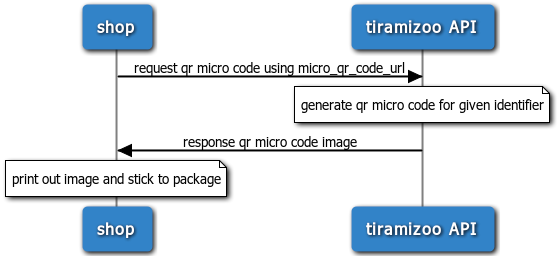
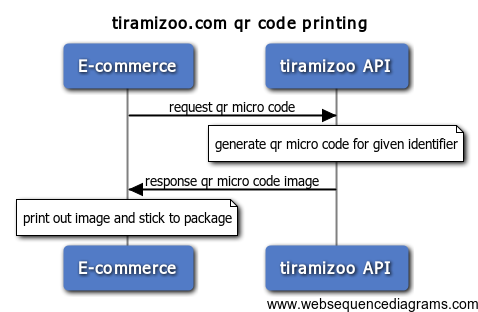
846: improve doc

diff --git a/_layouts/default.html b/_layouts/default.html
@@ -55,7 +55,7 @@
               <li><a href="/quotes.html">Quotes</a></li>
               <li><a href="/orders.html#cancel_order">Order Cancelation</a></li>
               <li><a href="/web_hooks.html">Web Hooks</a></li>
-              <li><a href="/qr_codes.html">Package labels (QR codes)</a></li>
+              <li><a href="/qr_codes.html">Package labeling process</a></li>
               <li class="divider"></li>
               <li><a href="/tracking_page.html">Tracking Page</a></li>
               <li><a href="/sandbox.html">Sandbox</a></li>

diff --git a/qr_codes.md b/qr_codes.md
@@ -1,76 +1,61 @@
 ---
 layout: page
-title: Package labels (QR codes)
+title: Package labeling process
 ---
 
-## Package labeling process
+On [order creation process](/orders.html) tiramizoo service generates uniq identifier for each package.
 
-#### Package identifier / QR code url
+![Generate identifier for a package](/assets/images/qr_step1.png)
 
-During order creation process ([More](/orders.html)) each package is generated:
 
-- unique identification number ("identifier")     <- Information to be encoded in QR code
-- api url to obtain QR code image ("QR_code_url") <- Api url to obtain QR code image 
-
-![Generate identifier for a package](/assets/images/QR_step1.png)
-
-Example order creation response:
-
+##### Packages representation #####
 {% highlight javascript %}
-{
-  "uuid": "a505ff78-67c5-4fbd-ab4f-a8db81f2c45a",
-  "state": "processing",
-  "created_at": "2013-03-12T11:13:46+01:00",
-  "description": "rubber chickens and chunky bacon",
+"packages": [
+  {
+    "width": 2,
+    "height": 8.2,
+    "length": 5,
+    "weight": 2,
+    "quantity": 1,
+    "description": "chunky bacon",
+    "identifier": "3E39C50E40226436",
+    "qr_code_url": "/api/v1/qr_codes/3E39C50E40226436"
+  },
   ...
-  "packages": [
-    {
-      "width": 2,
-      "height": 8.2,
-      "length": 5,
-      "weight": 2,
-      "quantity": 1,
-      "description": "chunky bacon",
-      "identifier": "3E39C50E40226436",
-      "QR_code_url": "/api/v1/QR_codes/3E39C50E40226436"
-    }
-  ...
-}
+]
 {% endhighlight %}
 
-#### QR code image generation
+ * `identifier` - 16 chars long, uniq identifier, contains only A-Z and 0-9
+ * `qr_code_url` - URL to generate qr code label
 
-User should label the packege with "identifier" encoded as QR code image ([More about QR codes](http://en.wikipedia.org/wiki/QR_code))
-##### It's highly recommended to use your own solution to generate QR code image for package labeling !!
 
-## QR code API
+QR code label needs to be generated for each package using package's `identifier` as a content.
 
-The QR codes API provides a simple and quick way to obtain QR code image for every package recoreded in a system. 
-**However it's highly recommended to use your own solution to generate QR code image for package labeling !!**
+![Generate QR code image for a package](/assets/images/qr_step2.png)
 
-![Generate QR code image for a package](/assets/images/QR_step2.png)
+##### Notice: We encourage you to implement your own solution and not relay on QR codes API. Under high load it may not be as fast and reliable as dedicated solution #####
 
-To obtain QR code you just need to send request with package identifier 
+## QR code API ##
 
-All requests require authentication (valid **API_TOKEN**  [More](/#api_tokens) )
+The QR codes API provides a simple way to generate QR code label for given identifier.
 
-#### Get  code
+#### Get QR code ####
 
 ```
 GET /qr_codes/:identifier?api_token=API_TOKEN
 ```
 
-* `identifier` - Each order package generated by the system contains uniqe identifier ([More](/orders.html#show_order))
+* `identifier` - Package identifier generated on [order creation process](/orders.html#show_order)
 * `api_token` - Request require api_token [More](/#api_tokens)
 
 #### Response ####
 
 QR code image in 'png' format
 
-![QR code image response](/assets/images/QR_code.png)
+![QR code image response](/assets/images/qr_code.png)
 
 ##### Try it yourself #####
 
 {% highlight bash %}
-wget https://api-sandbox.tiramizoo.com/v1/QR_codes/3E39C50E40226436?api_token=5715edce6630959b0e9c5659d323eae4
+wget https://api-sandbox.tiramizoo.com/v1/qr_codes/3E39C50E40226436?api_token=5715edce6630959b0e9c5659d323eae4
 {% endhighlight %}
